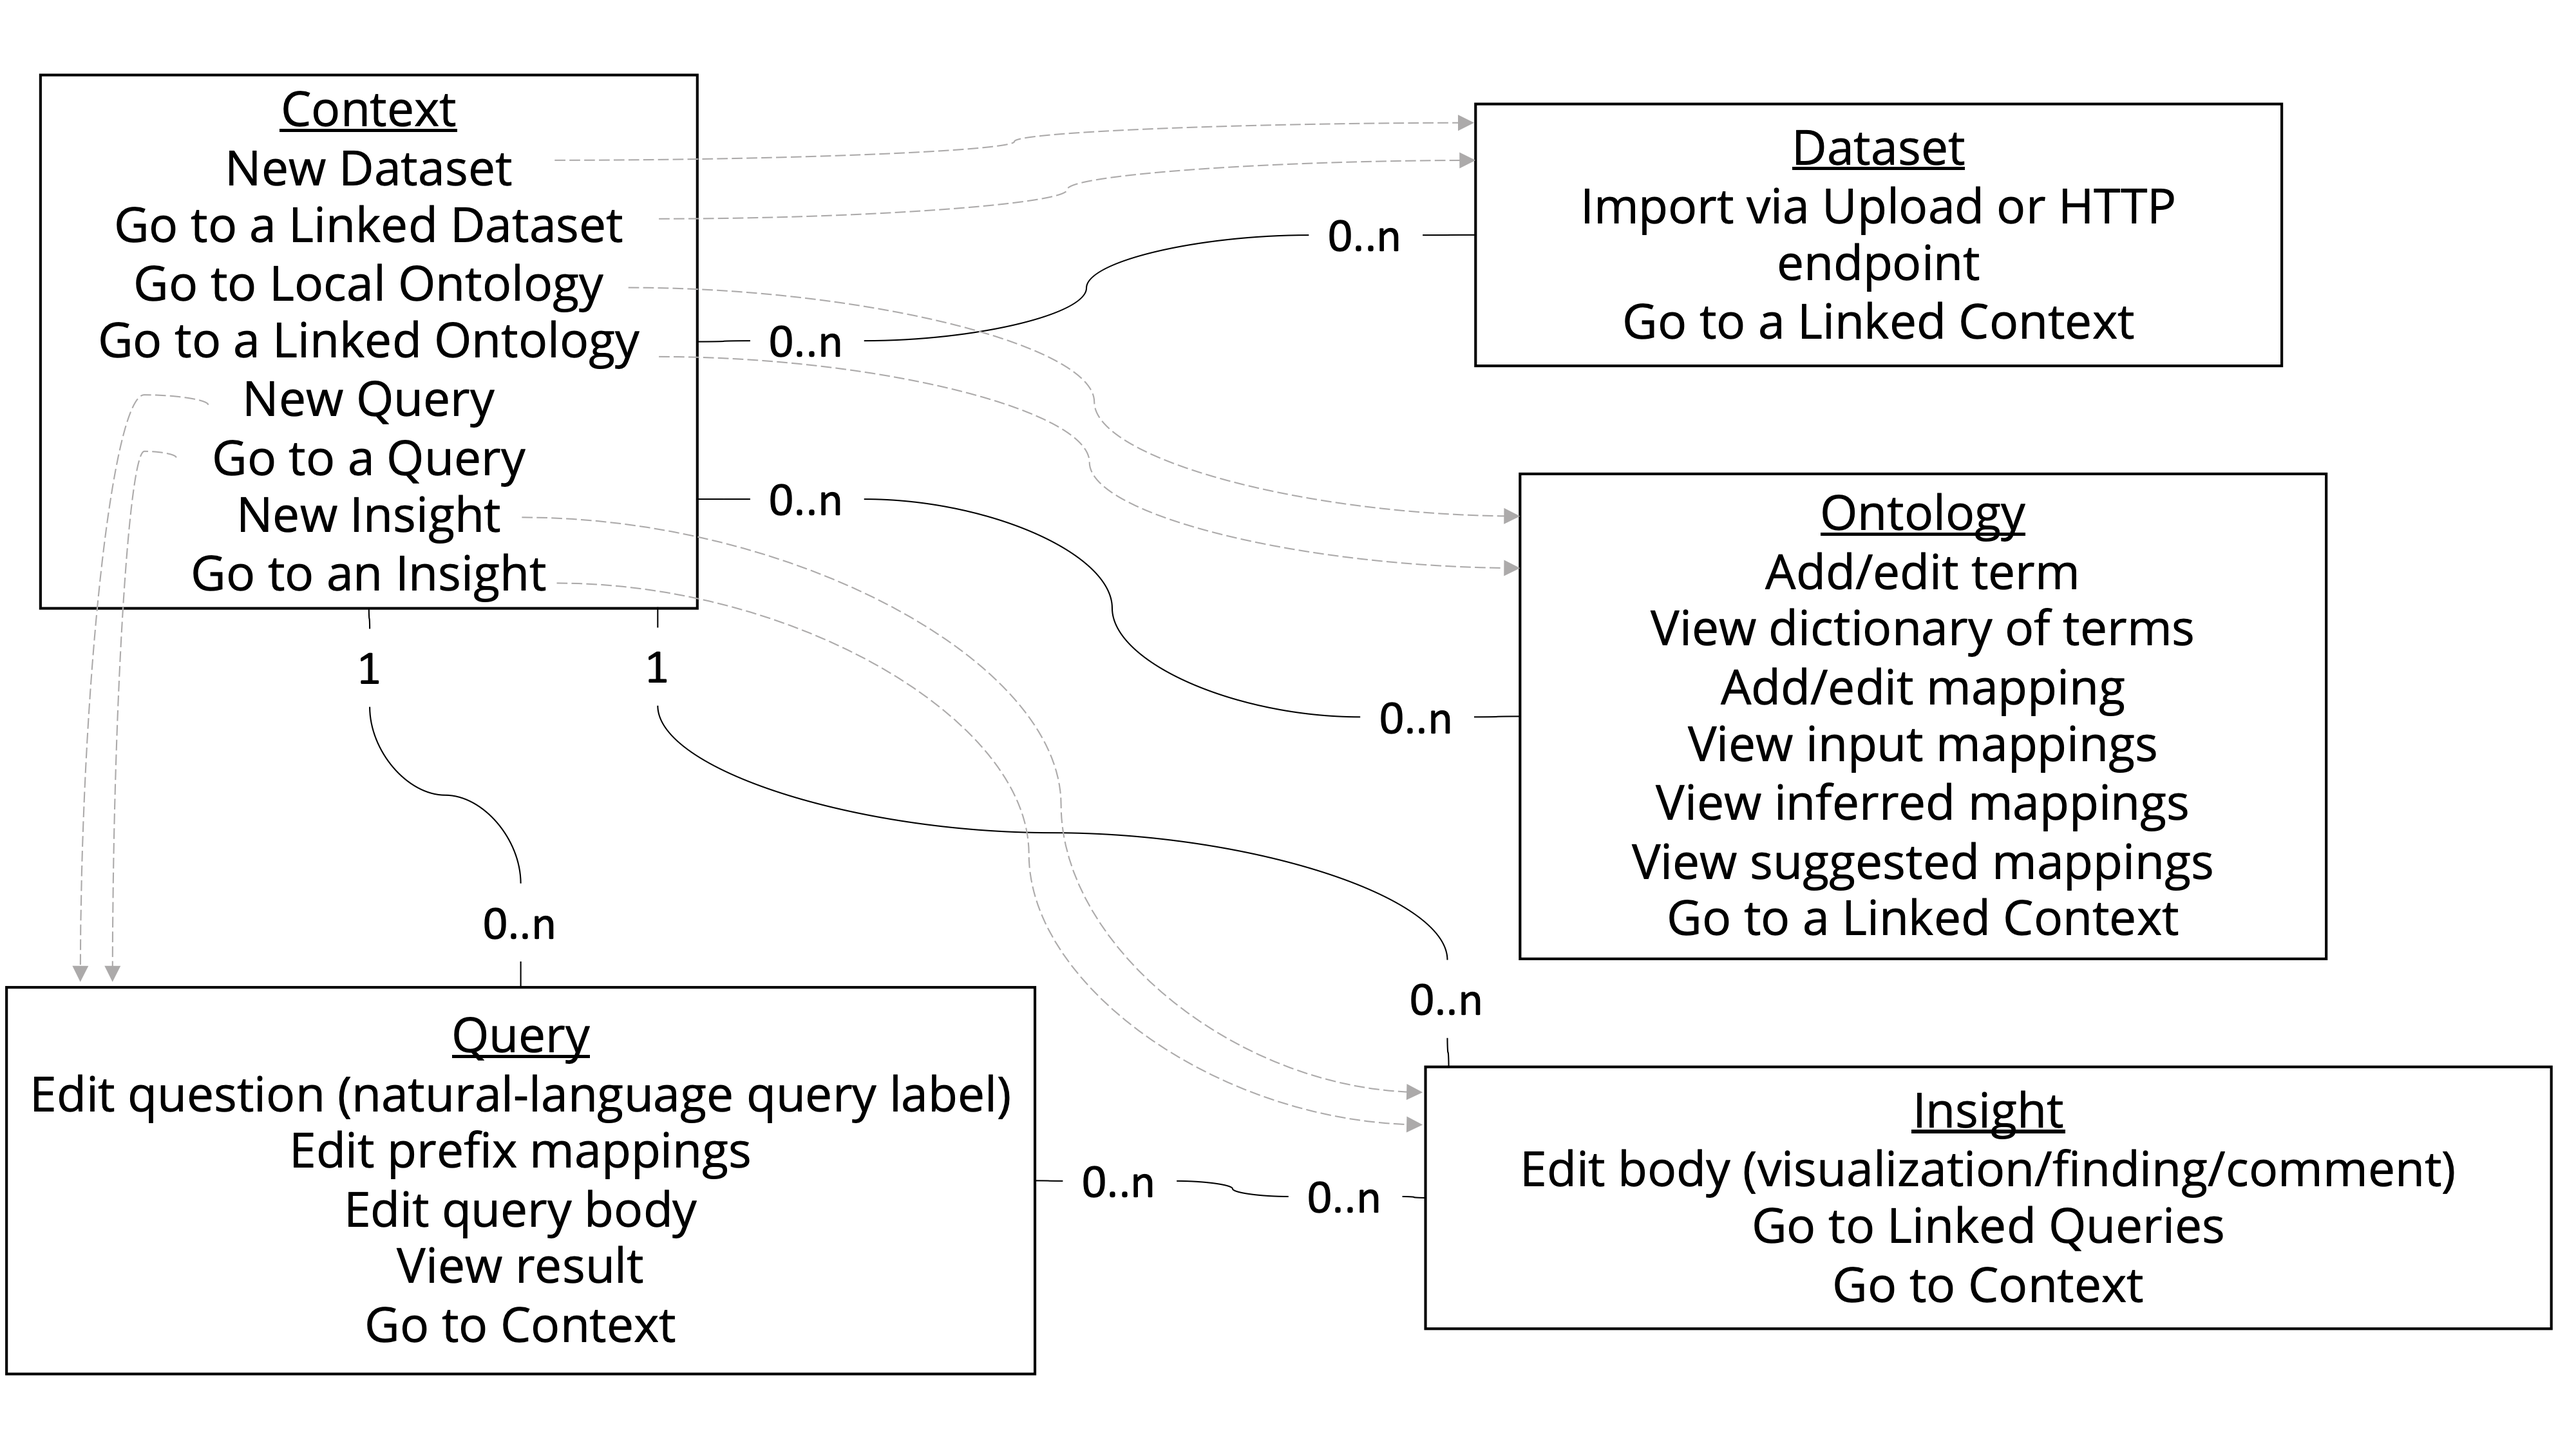
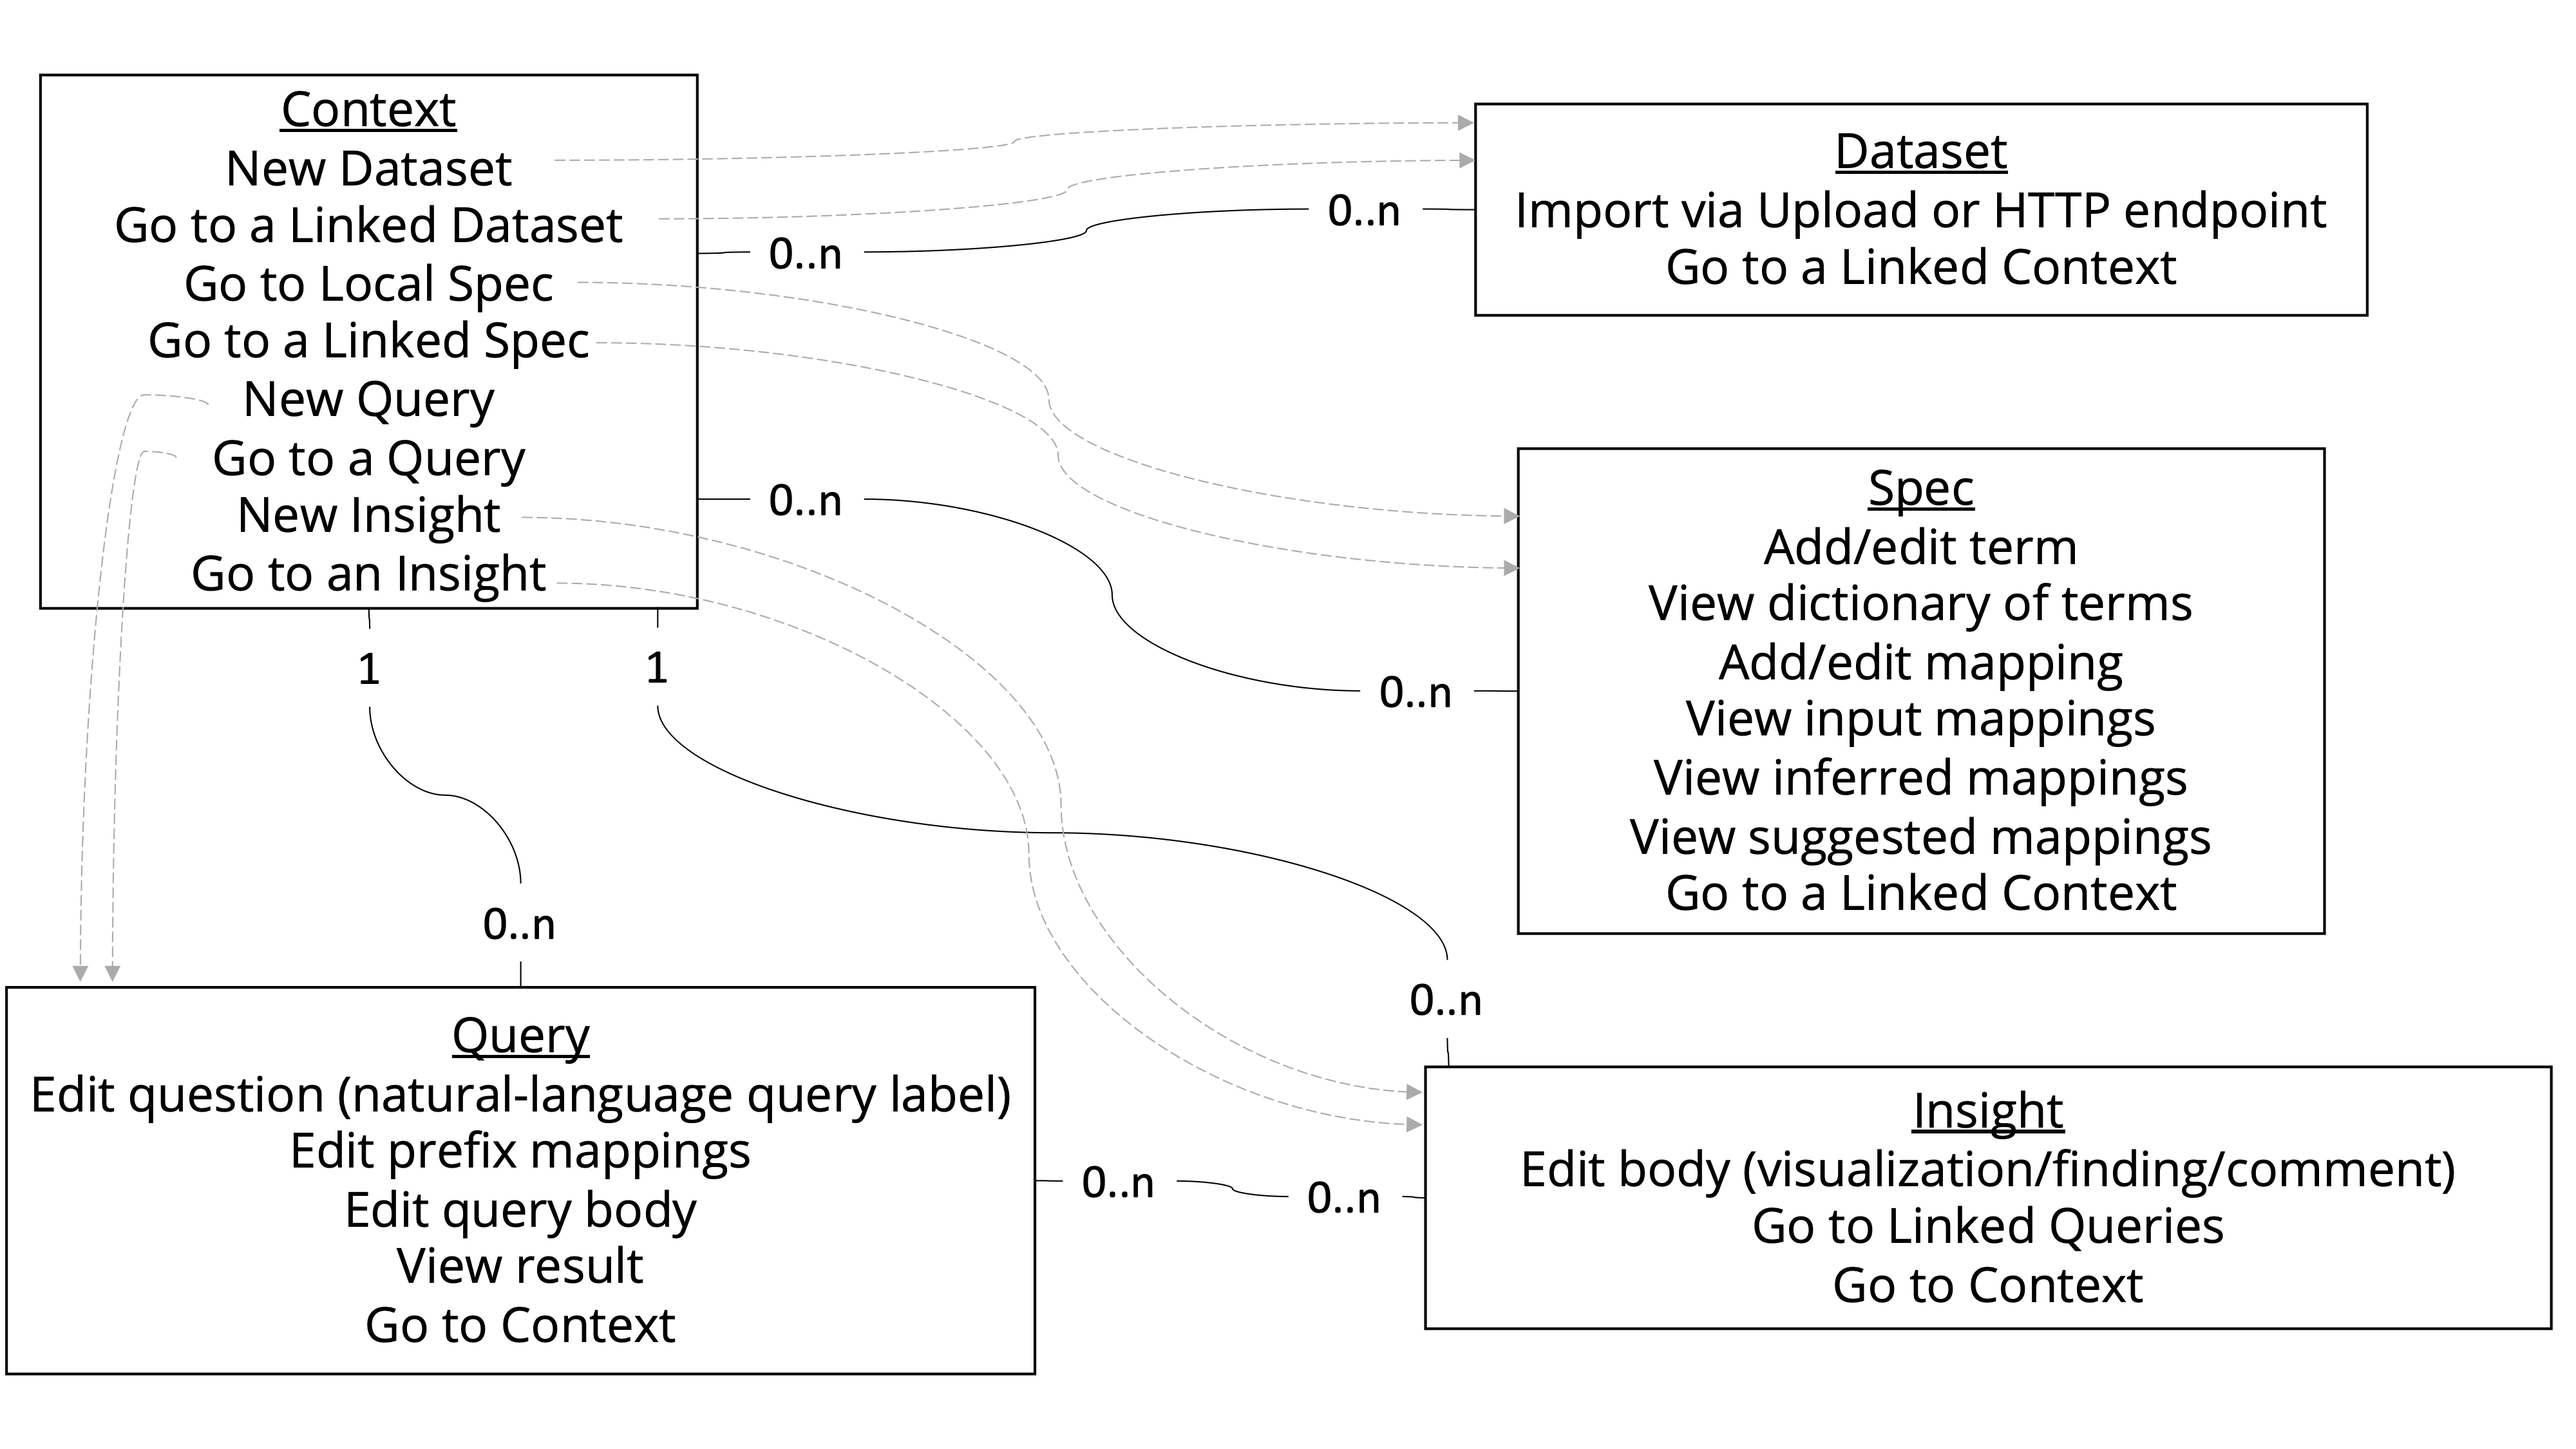
ontology->spec

diff --git a/README.md b/README.md
@@ -95,14 +95,17 @@ even if one knows the motivating use case is for agility in the context
 of a pilot system and thus one must
 [plan to throw one away; you will, anyhow.](https://www.tbray.org/ongoing/When/200x/2008/08/22/Build-One-to-Throw-Away)
 
-Finally, `maggtomic` aims to provide interoperability among data sources and sinks via translation between
-JSON-LD serializations (as JSON is a familiar format for stakeholders) and the RDF graphs corresponding
-to values of the `maggtomic` database as-of given times (and thus as a set of entity-attribute-value tuples
-for a given filtration of transactions). Again, Python tooling for this translation is crucial, and e.g.
-the [pyLD](https://github.com/digitalbazaar/pyld) library is a JSON-LD processor that supports necessary
-operations such as expansion+flattening -- context-annotated JSON-LD to RDF -- and
-framing(+compacting) -- RDF to context-annotated JSON-LD, which can leverage ontologies installed as
-facts-as-of-now themselves in the database.
+Finally, `maggtomic` aims to provide interoperability among data sources and
+sinks via translation between JSON-LD serializations (as JSON is a familiar
+format for stakeholders) and the RDF graphs corresponding to values of the
+`maggtomic` database as-of given times (and thus as a set of
+entity-attribute-value tuples for a given filtration of transactions). Again,
+Python tooling for this translation is crucial, and e.g. the
+[pyLD](https://github.com/digitalbazaar/pyld) library is a JSON-LD processor
+that supports necessary operations such as expansion+flattening --
+context-annotated JSON-LD to RDF -- and framing(+compacting) -- RDF to
+context-annotated JSON-LD, which can leverage specs, e.g. SHACL shape-graph
+schemas and ontologies, installed as facts-as-of-now themselves in the database.
 
 Dataflow may be handled via "builder" ETL processes as with the Materials Project's
 [maggma](https://github.com/materialsproject/maggma) system. Though currently out of scope for the near-term,
@@ -123,7 +126,7 @@ for the `maggtomic` user interface (UI). Each *place* has *affordances*, and the
 addition, here each place represents an entity, and the breadboard doubles as an
 entity relationship diagram (ERD) with relationship multiplicities labeled on
 the solid edges between entities. Examples: a *context* associates with zero or
-more ("0..n") *datasets*, a query* associates with one and only one ("1")
+more ("0..n") *datasets*, a *query* associates with one and only one ("1")
 *context*, etc.
 
 ![breadboard for user interface](design/breadboard-erd.png)
@@ -192,46 +195,61 @@ The below diagram shows a user story for importing a new dataset.
 
 ![Import new dataset](design/sequence-diagrams/Import%20new%20dataset.png)
 
-## Import new ontology
+## Import new spec
 
-An *ontology* is also an RDF graph, one intended to support inferences for
-and mapping among datasets in a context. Each context has a "local" ontology
+An *spec* (for "specification") is a power-up for datasets that increases their
+<a href="https://doi.org/10.1038/sdata.2016.18">FAIR</a>ness. A spec is also an
+RDF graph, and can represent something to be "applied" to a dataset, meaning
+additional facts are inferred from the dataset in this context -- that is, after
+verifying that the dataset doesn't contain facts that contradict with the spec.
+A spec of this kind is also called an *ontology*.
+
+A spec can also be something a dataset is validated against for conformance,
+e.g. a *schema* (called a *shape* in SHACL). A dataset needn't be conformant to
+all such linked specs in a context; rather, linking them can help the
+`maggtomic` system generate suggested mappings. Each context has a "local" spec
 where a user can use the namespace of the context to manage a controlled
-vocabulary (dictionary of terms) and mappings among terms.
+vocabulary (dictionary of terms) and mappings among terms. In this way, a user
+can ensure dataset conformance to specs of interest.
+
+The notion of "spec" here is inspired by that of
+[clojure.spec](https://clojure.org/about/spec): represented just like datasets,
+and more dynamic and flexible than a static system of types.
 
 A central design goal of `maggtomic` is to facilitate the mapping of imported
-datasets to shared ontologies. Thus, a user should be able to enter a context,
-import their dataset, import an ontology shared with them by a colleague,
-and establish mappings among terms. If another user has already imported
-an ontology of interest, that ontology may be linked from other contexts.
+datasets to shared specs. Thus, a user should be able to enter a context, import
+their dataset, import a spec shared with them by a colleague (for example, the
+[NMDC Schema](https://microbiomedata.github.io/nmdc-metadata/schema/)), and
+establish mappings among terms. If another user has already imported a spec of
+interest, that spec may be linked from other contexts.
 
-The below diagram shows a user story for importing a new ontology. The flow is
-similar to that for importing a new dataset, but in this case no atomization
-is needed, as ontologies are presumed to be imported as RDF-serialized. 
+The below diagram shows a user story for importing a new spec. The flow is
+similar to that for importing a new dataset, but in this case no atomization is
+needed, as specs are presumed to be imported as RDF-serialized.
 
-![Import new ontology](design/sequence-diagrams/Import%20new%20ontology.png)
+![Import new spec](design/sequence-diagrams/Import%20new%20spec.png)
 
 ## Suggest mappings
 
 To support queries across datasets, a user must ensure mappings among terms in
-their working context's linked datasets and ontologies (unless the datasets are
+their working context's linked datasets and spec (unless the datasets are
 already linked through use of the same terms (URIs) for the same concepts -- the
 dream of Linked Data!). Imagine a simple context of one dataset and one
-ontology: a user has imported a new dataset they wish to share with the
-community, and has linked to a previously imported recommended ontology from the
+spec: a user has imported a new dataset they wish to share with the
+community, and has linked to a previously imported recommended spec from the
 context where they imported their dataset. Now what?
 
 A user can request suggestions for mappings from the `maggtomic` system. First,
 the system should ensure that all inferences have been determined and persisted
-given the context's linked datasets and ontologies. Inferences are
-entity-attribute-value statements entailed by applying user-supplied ontologies
-to user-supplied data. In other words, *inferences* are mappings that are
+given the context's linked datasets and specs. Inferences are
+entity-attribute-value statements entailed by applying user-supplied ontology
+specs to user-supplied data. In other words, *inferences* are mappings that are
 already unambiguously implied by what the user supplied, so it would be
 redundant to offer these mappings as *suggestions* to be confirmed for explicit
-inclusion by the user in their context's local ontology.
+inclusion by the user in their context's local spec.
 
 The below diagram shows a user story for requesting suggestions for mappings
-to apply to a context's local ontology.
+to apply to a context's local spec.
 
 ![Suggest mappings](design/sequence-diagrams/Suggest%20mappings.png)
 
@@ -242,13 +260,13 @@ that empower and ease the construction of readable queries across datasets.
 Mappings may be suggested by `maggtomic`, or they may be entered manually,
 in either case applied by a user.
 
-Because datasets and ontologies are both represented as RDF, a user
-can update a dataset to include ontology statements as part of the dataset
+Because datasets and specs are both represented as RDF, a user
+can update a dataset to include spec statements as part of the dataset
 itself, making it more readily interoperable. Hooray for Linked Data!
 
 The below diagram shows a user story for applying mappings to a context's
-local ontology. The validation step ensures consistency with the
-entailments of linked ontologies.
+local spec. The validation step ensures consistency with the
+entailments of linked specs.
 
 ![Apply mappings](design/sequence-diagrams/Apply%20mappings.png)
 
